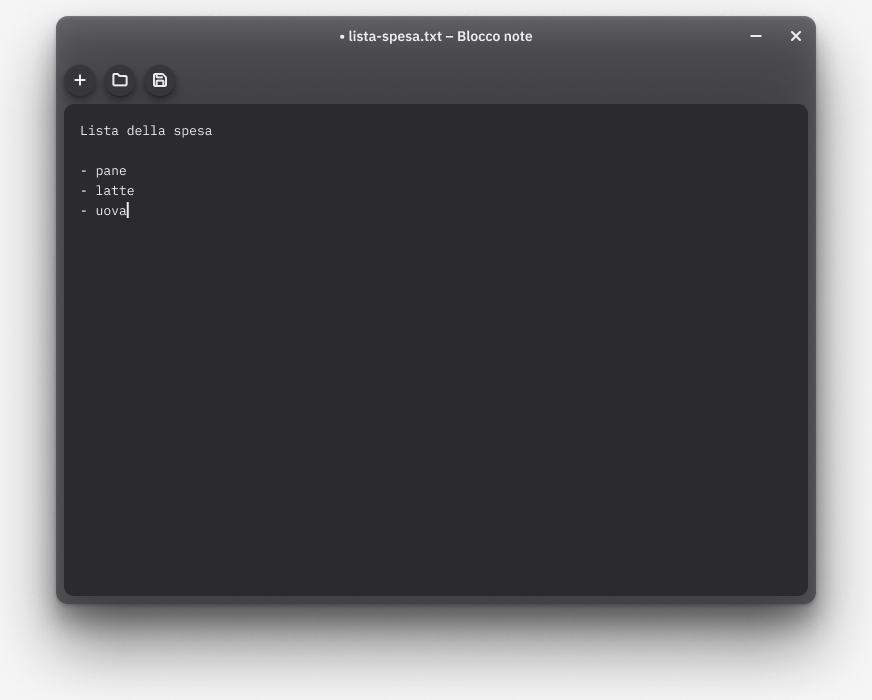
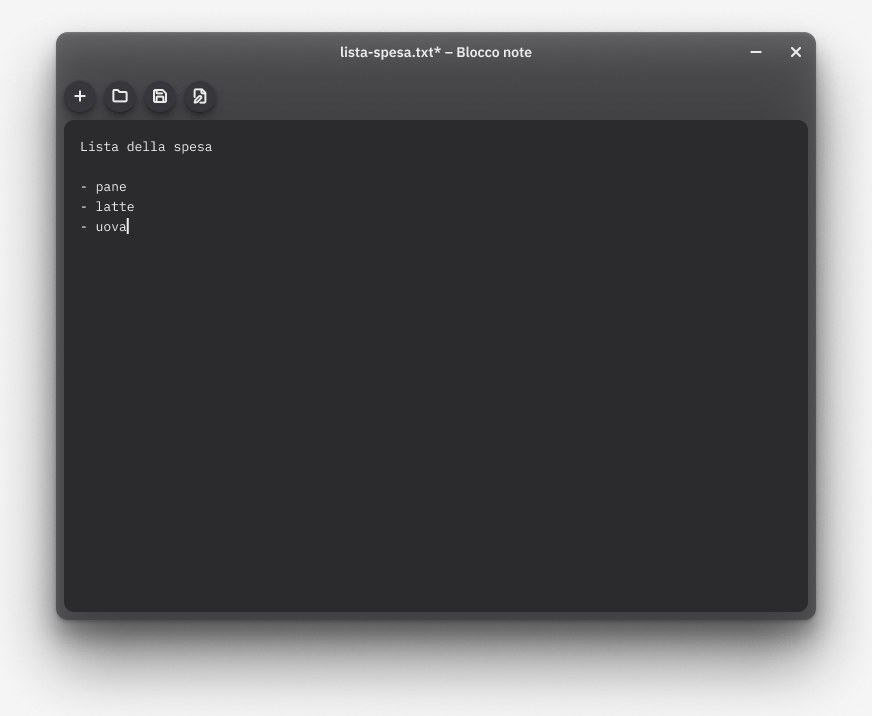
Blocco note disegno: asterisco dopo il nome, pulsante Salva con nome, schermata Salvare le modifiche

diff --git a/disegni/BloccoNote/descrizione.md b/disegni/BloccoNote/descrizione.md
@@ -18,7 +18,7 @@ Fonte: Figma "mshell – interfaccia" (X9g7EOJgKBlE4QjmjrTLFt). Pagina "App – 
 ## Finestra Blocco note (760 x 588)
 - Titolo finestra (libreria): Stato=Attiva (Inattiva sotto l'Apri), Comandi=No, Dimensione=Normale. Nessuna linea sotto il titolo.
 - Corpo "Contenuto": padding spazio/8, gap spazio/8, verticale. Nessuna barra laterale.
-  1. Barra degli strumenti (orizzontale, padding 0, gap spazio/8, altezza 32): tre Pulsante icona Tipo=Secondario, Dimensione=S, Stato=Normale: Nuovo (Simbolo/plus), Apri (Simbolo/cartella), Salva (Simbolo/save). Nient'altro.
+  1. Barra degli strumenti (orizzontale, padding 0, gap spazio/8, altezza 32): quattro Pulsante icona Tipo=Secondario, Dimensione=S, Stato=Normale: Nuovo (Simbolo/plus), Apri (Simbolo/cartella), Salva (Simbolo/save), Salva con nome (Simbolo/file-pen, 332:3899). Nient'altro. Il suggerimento (tooltip) di Salva con nome e "Salva con nome" (si vede solo nel codice, come per gli altri pulsanti).
   2. Area di testo (istanza, riempie la larghezza e l'altezza: 744 x 492).
 - Tema: cornici con Semantici su Chiaro o Scuro in modo esplicito (come il Terminale). Cornice 824 x 652 (padding 32 attorno alla finestra).
 
@@ -27,14 +27,17 @@ Fonte: Figma "mshell – interfaccia" (X9g7EOJgKBlE4QjmjrTLFt). Pagina "App – 
 |---|---|---|---|---|
 | a. Documento nuovo vuoto | 314:2270 (finestra 314:2271) | 314:3804 (314:3805) | Senza titolo – Blocco note | Vuota, Fuoco Sì |
 | b. Testo, cursore e selezione | 314:2305 (314:2306) | 314:3813 (314:3814) | lista-spesa.txt – Blocco note | Selezione, Fuoco Sì |
-| c. Modifiche non salvate | 314:2340 (314:2341) | 314:3822 (314:3823) | • lista-spesa.txt – Blocco note | Testo, Fuoco Sì |
+| c. Modifiche non salvate | 314:2340 (314:2341) | 314:3822 (314:3823) | lista-spesa.txt* – Blocco note | Testo, Fuoco Sì |
 | d. Apri sopra il documento | 314:3711 | 314:3831 | lista-spesa.txt (finestra dietro Inattiva) | Selezione, Fuoco No |
 
-- c: le modifiche non salvate si vedono con un punto "•" davanti al nome nel titolo. Nessun'altra app ha un modo gia deciso: PROPOSTA, da confermare.
+- c: le modifiche non salvate si vedono con un asterisco "*" subito dopo il nome nel titolo (decisione della persona). Il titolo e la proprieta Titolo dell'istanza Titolo finestra.
+- e. Salvare le modifiche? (premendo Nuovo o Apri con modifiche non salvate): cornice Chiaro 332:3971, Scuro 332:4014 (x 3600, y 0 / 800). Copia della schermata c con, in ordine: Velo della finestra (istanza 138:455, assoluto, 760 x 588 a 32,32) sopra la finestra Blocco note (Attiva) e Avviso (istanza del set Avviso 185:3085, Scelte=Tre, 480 x 160, assoluto, centrato nella finestra a x 172 y 246). Testi: titolo "Salvare le modifiche?", messaggio "Le modifiche a lista-spesa.txt andranno perse se non le salvi." (proposta, da confermare). Pulsanti da sinistra, Pulsante M: Non salvare (Secondario), Annulla (Secondario), Salva (Primario). Nelle istanze i nodi si chiamano ancora Annulla / Alternativa / Conferma (non si possono riordinare dentro un'istanza): contano le etichette.
+- Tutte le schermate (a-e) hanno il quarto pulsante nella barra degli strumenti, anche la finestra dietro in d.
 - d: copia della schermata Apri 293:2361 (pagina 289:674) con la finestra Blocco note al posto di Files; Velo della finestra 760 x 588 a x 32 y 32; finestra Apri 480 x 421 centrata (x 172, y 115,5). Per il resto invariata.
 
 ## Foto (`figma/`)
 - a, b, c: `nuovo`, `testo-selezione`, `non-salvato`, ognuna `-chiaro.png` / `-scuro.png`, ritagliate sulla finestra (con il margine d'ombra).
+- e: `salvare-modifiche-chiaro.png` / `salvare-modifiche-scuro.png`: cornice intera.
 - d: `apri-sopra-chiaro.png` / `apri-sopra-scuro.png`: cornice intera.
 - Componente: `area-di-testo-chiaro.png`, `area-di-testo-scuro.png`.
 
@@ -45,7 +48,7 @@ Fonte: Figma "mshell – interfaccia" (X9g7EOJgKBlE4QjmjrTLFt). Pagina "App – 
 - Nessuna linea e nessun bordo tra le aree.
 
 ## Componenti usati
-Titolo finestra, Pulsante icona 92:1170, Barra di scorrimento 113:3035, Velo della finestra 138:455, finestra Apri (copia di 293:2410). Variabili: Semantici (superficie/elevata, superficie/scena, testo/primario, testo/secondario, informazione/testo-tenue, testo/cursore, testo/selezione, testo/selezione-inattiva), Misure (spazio/0, spazio/8, spazio/16, raggio/pannello).
+Titolo finestra, Pulsante icona 92:1170, Avviso 185:3085 (Scelte=Tre), Simbolo/file-pen 332:3899 (nuovo, pagina Componenti base, sezione Icone – Simbolo, dopo Simbolo/pacchetto; Lucide "file-pen", tre tratti come gli altri simboli, solo nel set Chiaro), Barra di scorrimento 113:3035, Velo della finestra 138:455, finestra Apri (copia di 293:2410). Variabili: Semantici (superficie/elevata, superficie/scena, testo/primario, testo/secondario, informazione/testo-tenue, testo/cursore, testo/selezione, testo/selezione-inattiva), Misure (spazio/0, spazio/8, spazio/16, raggio/pannello).
 
 ## Icona dell'app
 Il Blocco note non ha ancora una pagina di disegno: l'icona sta in "Icone delle app senza pagina" (sezione 166:799, pagina Scrivania), accanto a Doom, Contatore ed Esempio. Cornice "Blocco note" **317:8097** (stessa struttura di Contatore: titolo, riquadro Tema Chiaro, riquadro Tema Scuro).
